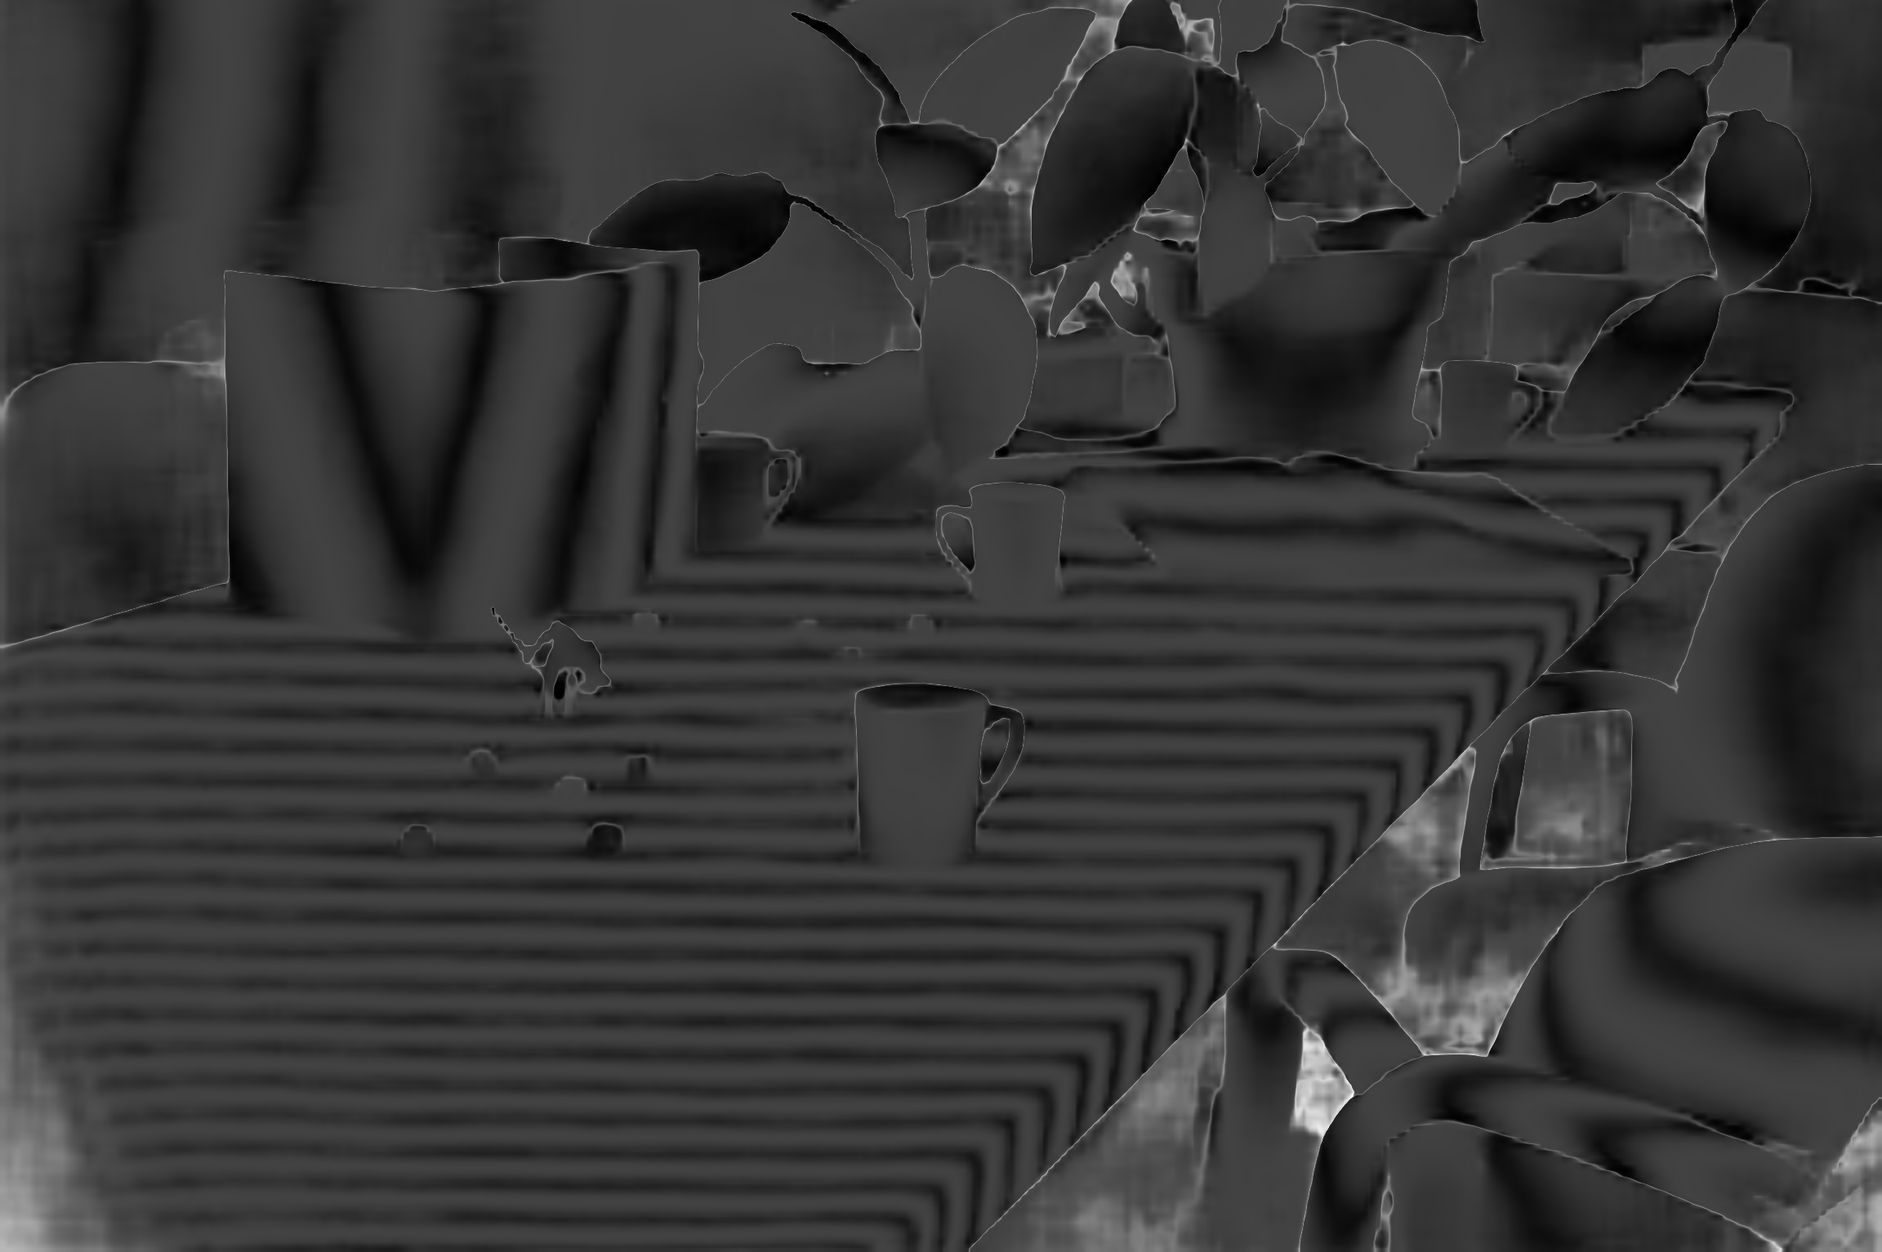
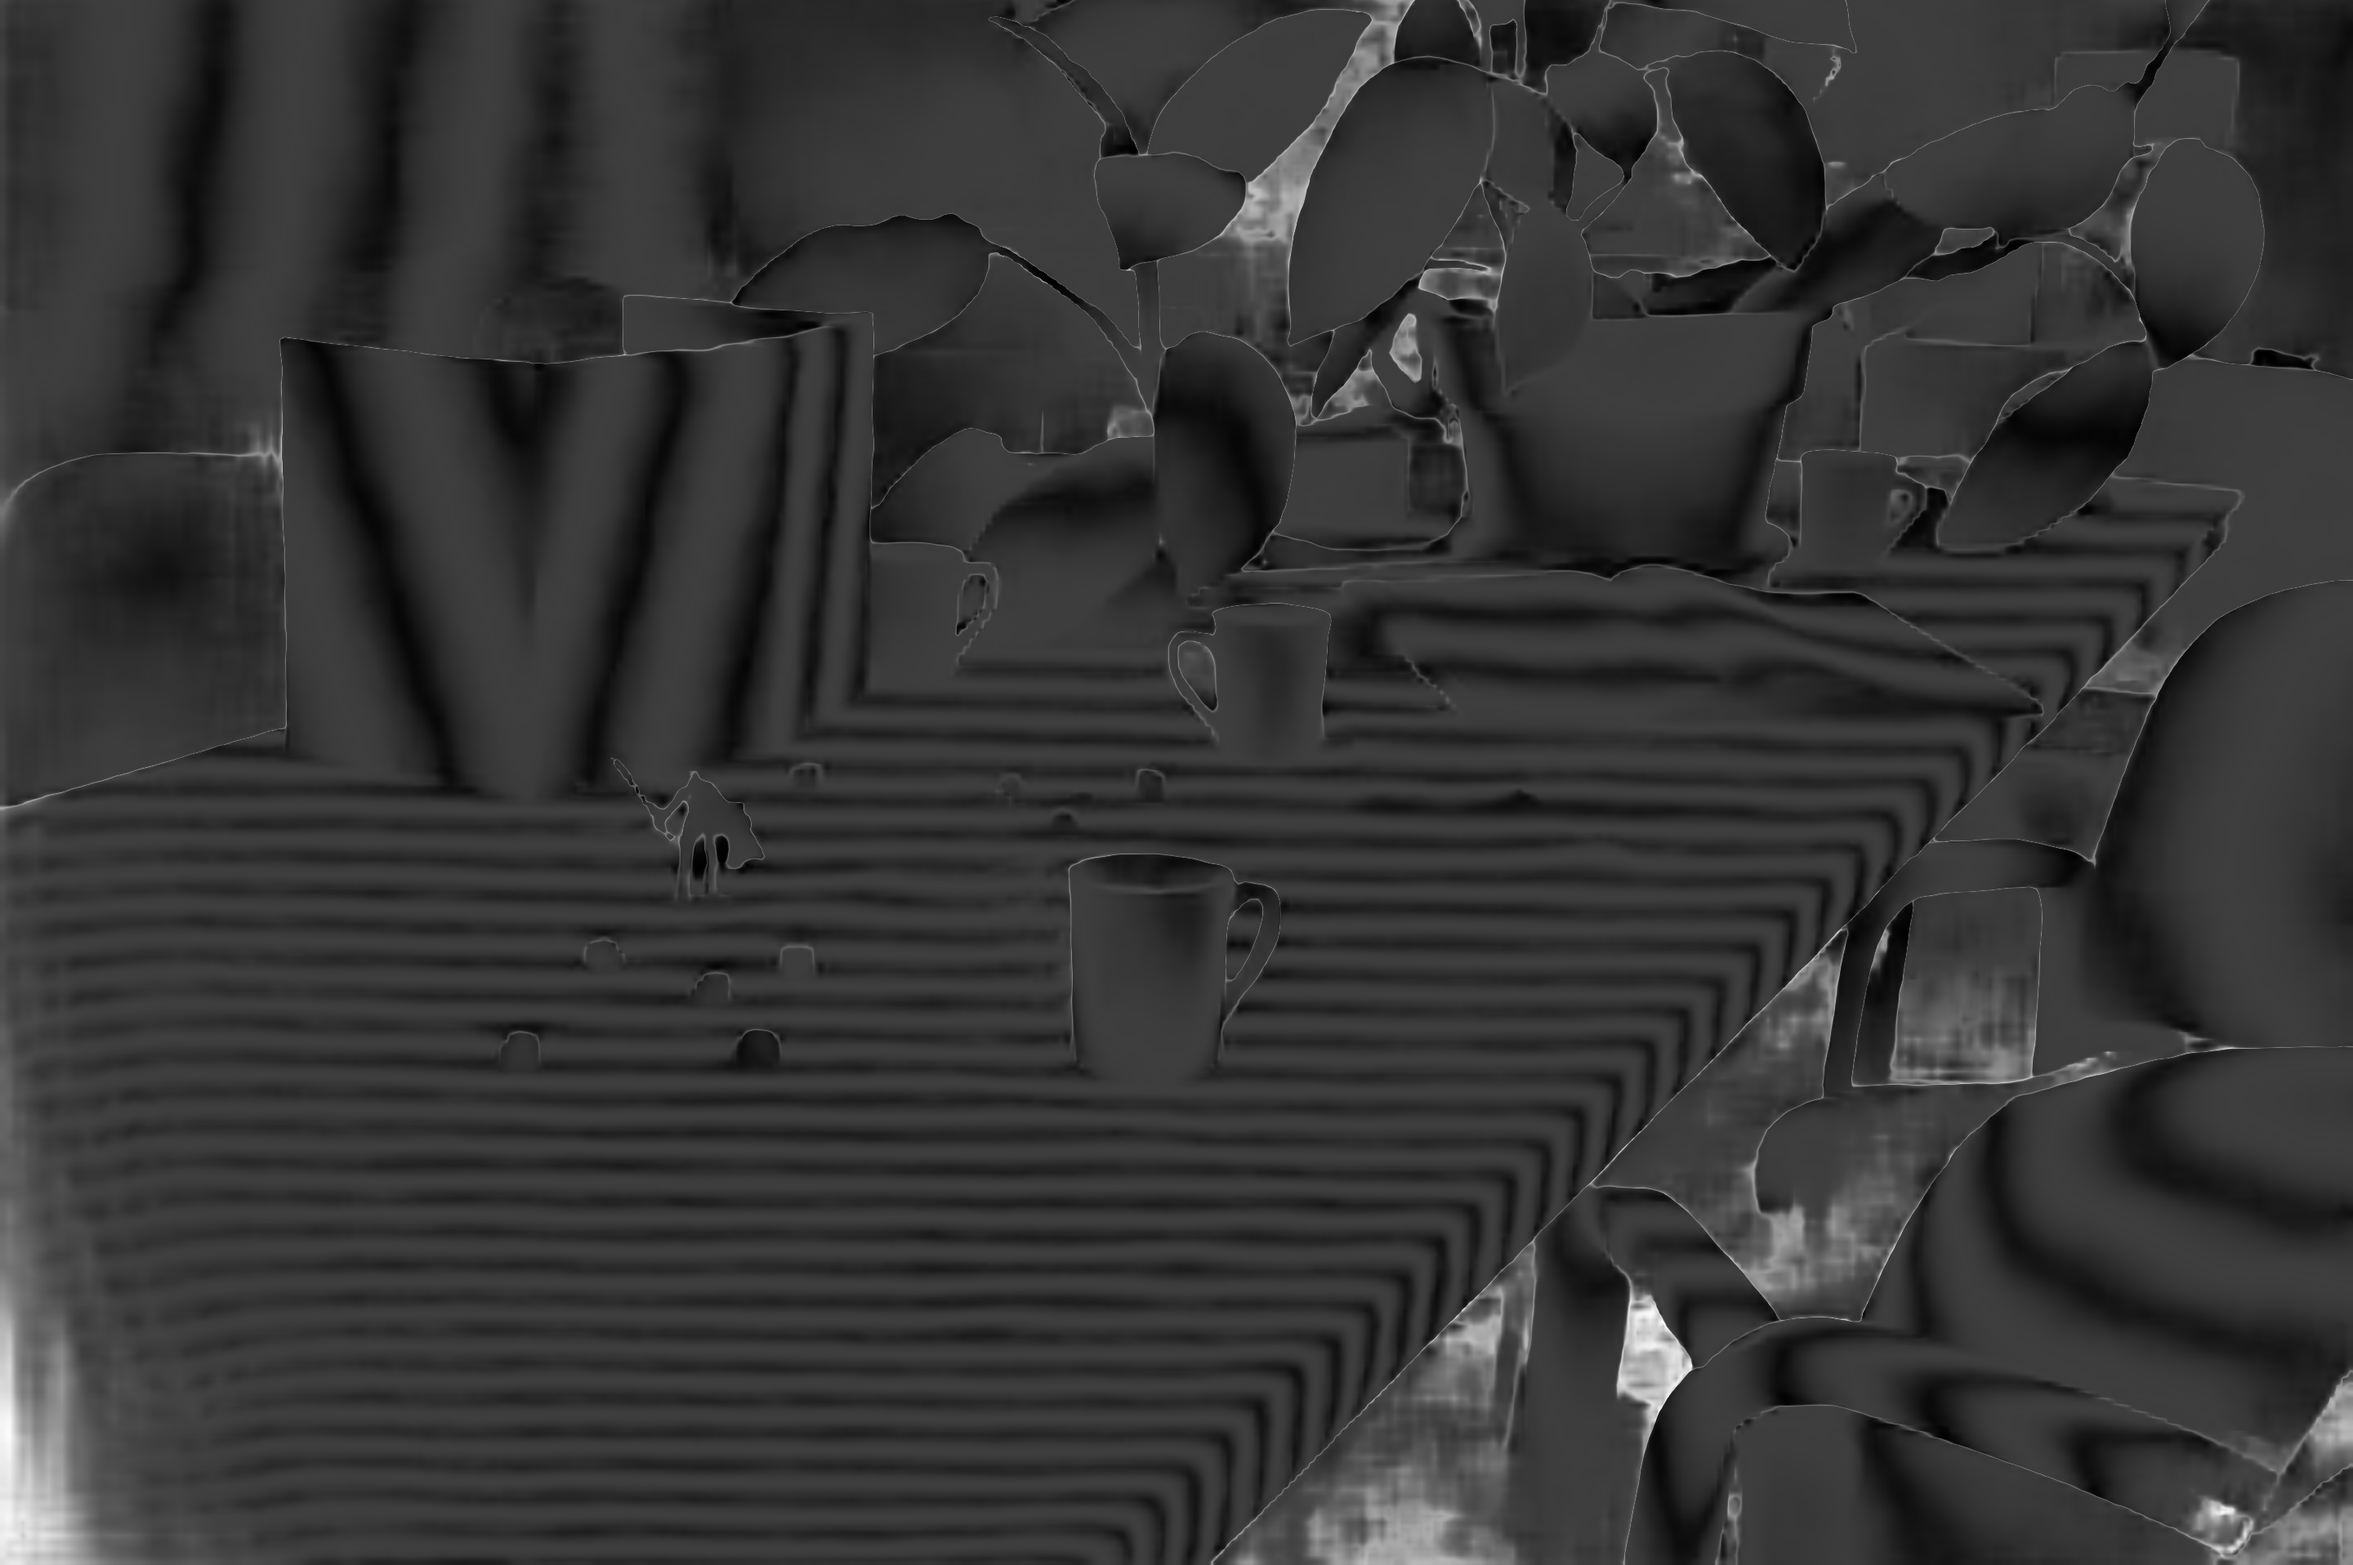
add results for large view variations

diff --git a/README.md b/README.md
@@ -1,13 +1,19 @@
 # Hierarchical Deep Stereo Matching on High Resolution Images
-Architecture:
+### [[project webpage](http://www.contrib.andrew.cmu.edu/~gengshay/cvpr19stereo)]
+
 <img src="./architecture.png" width="800">
 
-Qualitative results on Middlebury (refer to [project webpage](http://www.contrib.andrew.cmu.edu/~gengshay/cvpr19stereo) for more results)
+Qualitative results on Middlebury:
+ 
 <img src="http://www.contrib.andrew.cmu.edu/~gengshay/wordpress/wp-content/uploads/2019/06/cvpr19-middlebury1-small.gif" width="400">
 
-Performance on Middlebury benchmark (y-axis: the lower the better)
+Performance on Middlebury benchmark (y-axis: error, the lower the better):
+
 <img src="./middlebury-benchmark.png" width="400">
 
+Able to handle large view variation of high-res images (as a submodule in [Open4D, CVPR 2020](https://www.youtube.com/watch?v=sq2hhkHgtb0)): 
+
+<img src="http://www.contrib.andrew.cmu.edu/~gengshay/wordpress/wp-content/uploads/2020/02/cvpr19-dance.gif" width="800">
 
 ## Requirements
 - tested with python 2.7.15 and 3.6.8
@@ -19,30 +25,11 @@ Performance on Middlebury benchmark (y-axis: the lower the better)
 
 [Backup link](http://www.contrib.andrew.cmu.edu/~gengshay/wordpress/wp-content/uploads/2020/01/final-768px.tar)
 
-## Data
-
-### train/val
-- [Middlebury (train set and additional images)](https://drive.google.com/file/d/1jJVmGKTDElyKiTXoj6puiK4vUY9Ahya7/view?usp=sharing)
-- [High-res-virtual-stereo (HR-VS)](https://drive.google.com/file/d/1SgEIrH_IQTKJOToUwR1rx4-237sThUqX/view?usp=sharing)
-- [KITTI-2012&2015](http://www.cvlibs.net/datasets/kitti/eval_stereo.php)
-- [SceneFlow](https://lmb.informatik.uni-freiburg.de/resources/datasets/SceneFlowDatasets.en.html)
-- [Eth3D](https://www.eth3d.net/datasets#low-res-two-view-training-data)
-
-### test
-[High-res-real-stereo (HR-RS)](): comming soon
-
-## Train
-1. Download and extract training data in folder /d/. Training data include Middlebury train set, HR-VS, KITTI-12/15, ETH3D, and SceneFlow.
-2. Run
-```
-CUDA_VISIBLE_DEVICES=0,1,2,3 python train.py --maxdisp 384 --batchsize 28 --database /d/ --logname log1 --savemodel /somewhere/  --epochs 10
-```
-3. Evalute on Middlebury additional images and KITTI validation set. After 40k iterations, average error on Middlebury *additional* images excluding Shopvac (perfect+imperfect, 24 stereo pairs in total) with half-res should be around 5.7.
 
 ## Inference
-Example:
+Test on CrusadeP and dancing stereo pairs:
 ```
-CUDA_VISIBLE_DEVICES=3 python submission.py --datapath ./data-mbtest/   --outdir ./mboutput --loadmodel ./weights/final-768px.tar  --testres 1 --clean 0.8 --max_disp -1
+CUDA_VISIBLE_DEVICES=3 python submission.py --datapath ./data-mbtest/   --outdir ./mboutput --loadmodel ./weights/final-768px.tar  --testres 1 --clean 1.0 --max_disp -1
 ```
 
 Evaluate on Middlebury additional images:
@@ -73,6 +60,26 @@ uncertainty map (brighter->higher uncertainty)
 - testres: 1 is full resolution, and 0.5 is half resolution, and so on
 - max_disp: maximum disparity range to search
 - clean: threshold of cleaning. clean=0 means removing all the pixels.
+
+## Data
+
+### train/val
+- [Middlebury (train set and additional images)](https://drive.google.com/file/d/1jJVmGKTDElyKiTXoj6puiK4vUY9Ahya7/view?usp=sharing)
+- [High-res-virtual-stereo (HR-VS)](https://drive.google.com/file/d/1SgEIrH_IQTKJOToUwR1rx4-237sThUqX/view?usp=sharing)
+- [KITTI-2012&2015](http://www.cvlibs.net/datasets/kitti/eval_stereo.php)
+- [SceneFlow](https://lmb.informatik.uni-freiburg.de/resources/datasets/SceneFlowDatasets.en.html)
+- [Eth3D](https://www.eth3d.net/datasets#low-res-two-view-training-data)
+
+### test
+[High-res-real-stereo (HR-RS)](): comming soon
+
+## Train
+1. Download and extract training data in folder /d/. Training data include Middlebury train set, HR-VS, KITTI-12/15, ETH3D, and SceneFlow.
+2. Run
+```
+CUDA_VISIBLE_DEVICES=0,1,2,3 python train.py --maxdisp 384 --batchsize 28 --database /d/ --logname log1 --savemodel /somewhere/  --epochs 10
+```
+3. Evalute on Middlebury additional images and KITTI validation set. After 40k iterations, average error on Middlebury *additional* images excluding Shopvac (perfect+imperfect, 24 stereo pairs in total) with half-res should be around 5.7.
 
 ## Citation
 ```
